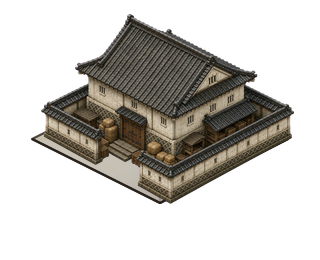
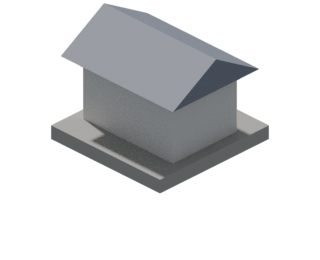
v2607032138

diff --git a/packages/asset-tools/src/productionPipeline.ts b/packages/asset-tools/src/productionPipeline.ts
@@ -78,7 +78,11 @@ export async function renderBlenderAssets(): Promise<number> {
 }
 
 export async function postprocessProductionAssets(): Promise<number> {
-  return importRasterAssets();
+  // Both steps overwrite the SVG-generated PNGs for their source type, so
+  // assets:all must run them or placeholder art would ship as production.
+  const rasterCount = await importRasterAssets();
+  const blenderCount = await renderBlenderAssets();
+  return rasterCount + blenderCount;
 }
 
 export async function runBlenderCalibration(): Promise<void> {